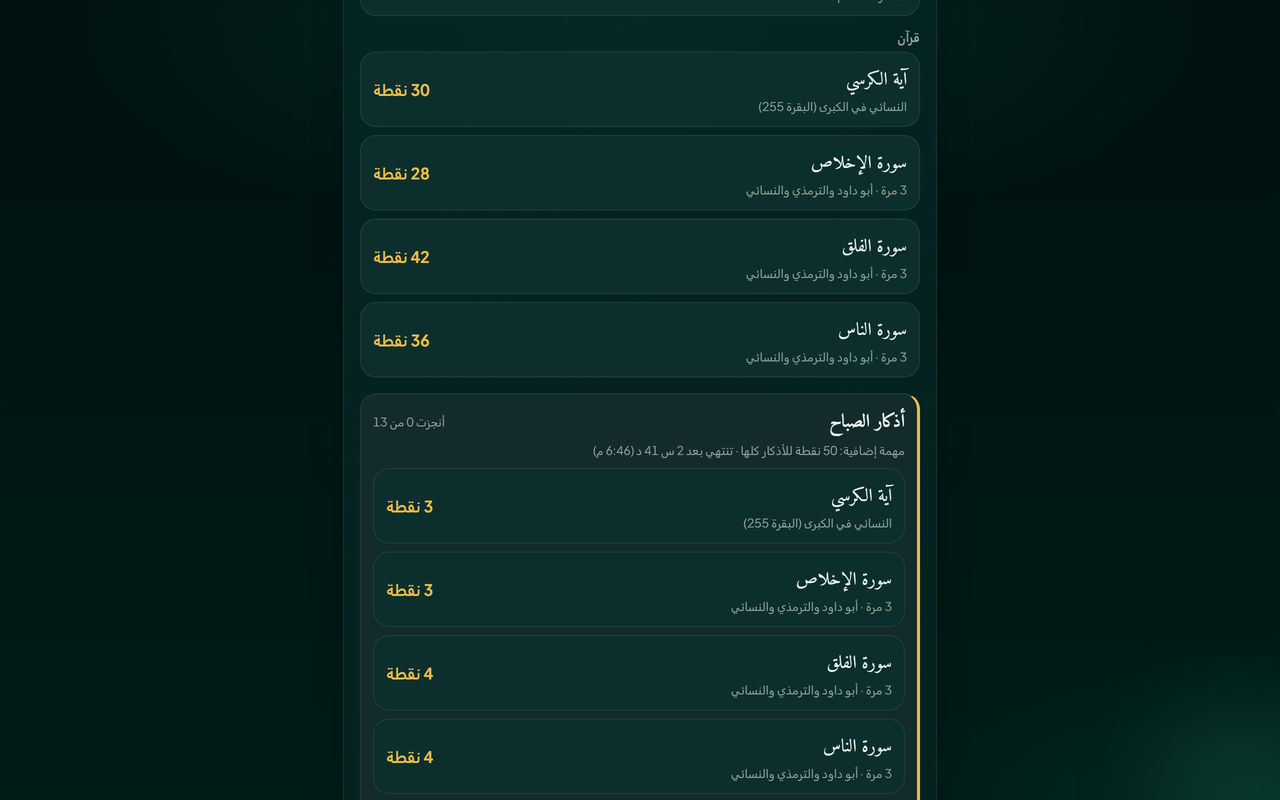
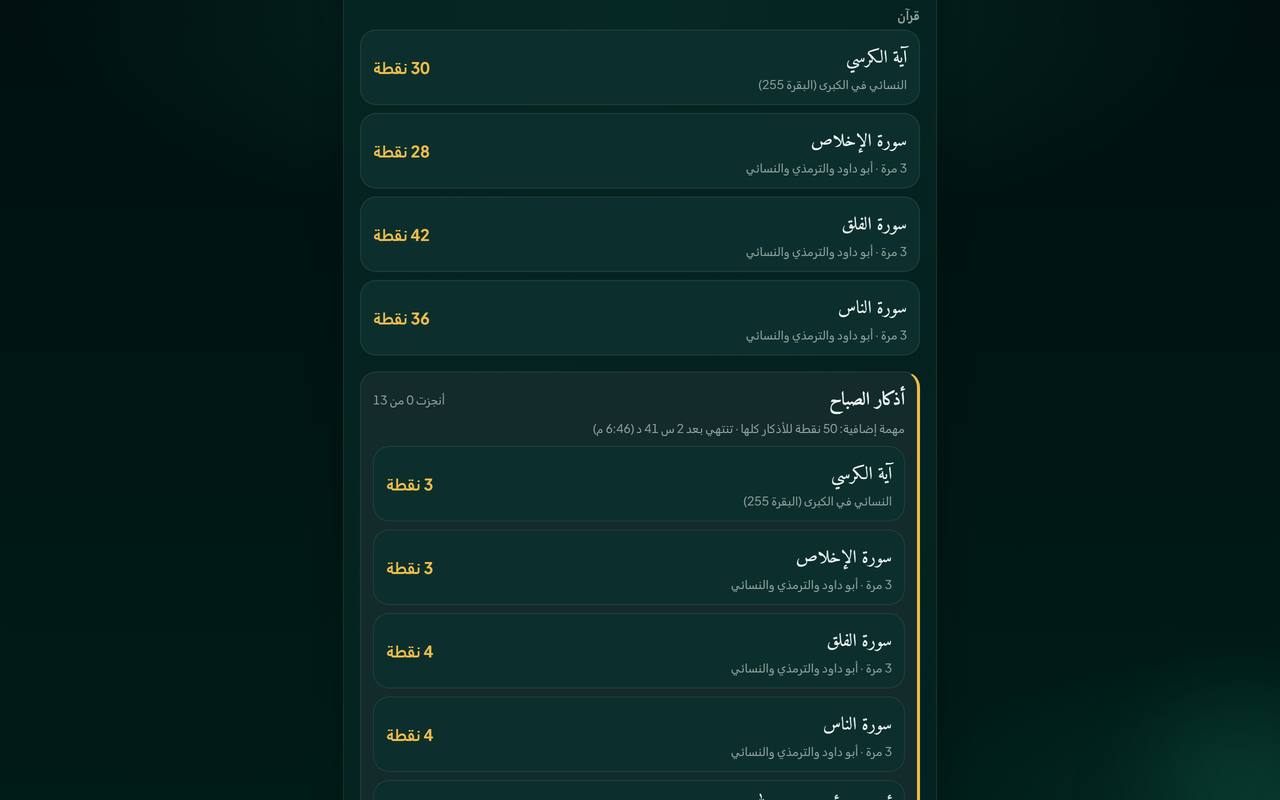
docs(screenshots): game tasks shot starts cleanly at the Quran group
The store / README game-tasks screenshot started mid-card. It now
scrolls to the prayer's Quran group so the frame opens on a clean edge
and still shows the morning adhkar card below it.

diff --git a/scripts/make_store_screenshots.py b/scripts/make_store_screenshots.py
@@ -192,7 +192,7 @@ KINDS = {
     "popup":   {"src": "popup.html",   "stage": STAGE_POPUP,   "sel": "#main-view", "margin": 52},
     "welcome": {"src": "welcome.html", "stage": STAGE_WELCOME, "sel": ".card",      "margin": 58},
     "game":    {"src": "game.html",    "stage": STAGE_GAME,    "sel": None, "margin": 0, "hash": "#tasks", "common": False,
-                "scroll": ("#task-groups > h3:last-of-type", 28)},
+                "scroll": ("#task-groups > h3:last-of-type", 6)},
     "account": {"src": "game.html",    "stage": STAGE_GAME,    "sel": None, "margin": 0, "hash": "#me", "common": False},
 }
 
